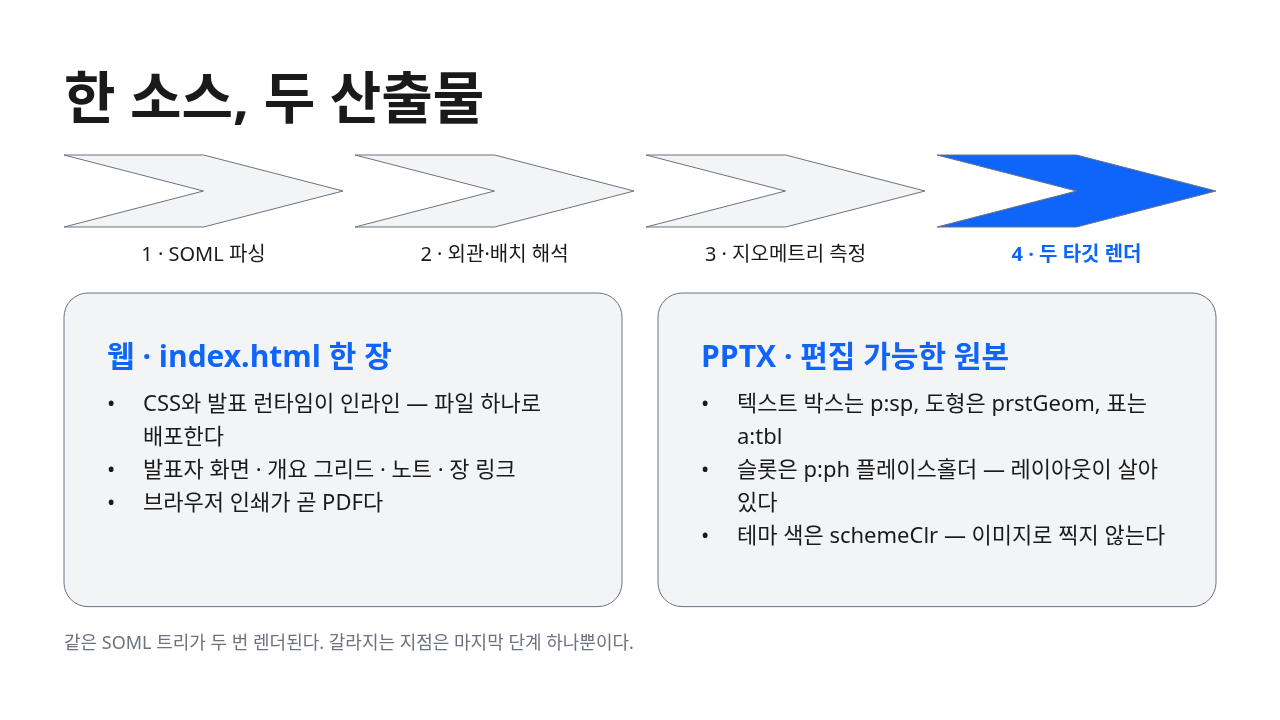
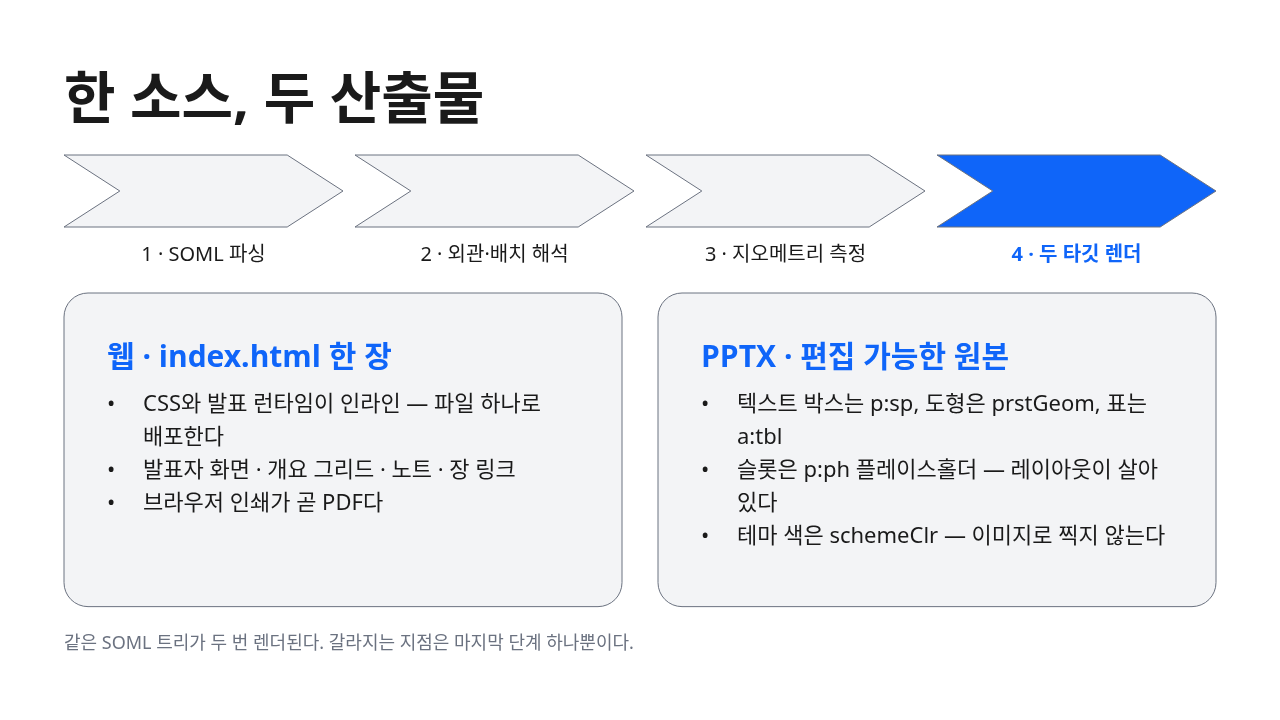
doc: re-render showcase with the shallower default chevron notch

diff --git a/examples/showcase/decks/incident-postmortem/index.html b/examples/showcase/decks/incident-postmortem/index.html
@@ -582,7 +582,7 @@
 <div class="balpyo-grid" data-balpyo-id="s2.1" data-balpyo-el="grid" style="gap: var(--balpyo-space-sm); grid-template-columns: repeat(5, 1fr); flex-grow: 1">
 <div class="balpyo-col" data-balpyo-id="s2.1.0" data-balpyo-el="col" style="gap: var(--balpyo-space-sm)">
 <div class="balpyo-shape" data-balpyo-id="s2.1.0.0" data-balpyo-el="shape" style="width: 100%; height: 64px">
-<svg class="balpyo-shape-ink" viewBox="0 0 100 100" preserveAspectRatio="none" aria-hidden="true" style="fill: var(--balpyo-color-accent5); stroke: var(--balpyo-color-muted); stroke-width: 1px"><path d="M0,0 L50,0 L100,50 L50,100 L0,100 L50,50 Z" vector-effect="non-scaling-stroke"/></svg>
+<svg class="balpyo-shape-ink" viewBox="0 0 100 100" preserveAspectRatio="none" aria-hidden="true" style="fill: var(--balpyo-color-accent5); stroke: var(--balpyo-color-muted); stroke-width: 1px"><path d="M0,0 L80,0 L100,50 L80,100 L0,100 L20,50 Z" vector-effect="non-scaling-stroke"/></svg>
 </div>
 <div class="balpyo-shape" data-balpyo-id="s2.1.0.1" data-balpyo-el="shape" style="padding: calc(var(--balpyo-space-md) + 3.5147px) calc(var(--balpyo-space-md) + 3.5147px) calc(var(--balpyo-space-md) + 3.5147px) calc(var(--balpyo-space-md) + 3.5147px); width: 100%; flex-grow: 1">
 <svg class="balpyo-shape-ink" aria-hidden="true" style="fill: var(--balpyo-color-surface); stroke: none"><rect width="100%" height="100%" rx="12"/></svg>
@@ -597,7 +597,7 @@
 </div>
 <div class="balpyo-col" data-balpyo-id="s2.1.1" data-balpyo-el="col" style="gap: var(--balpyo-space-sm)">
 <div class="balpyo-shape" data-balpyo-id="s2.1.1.0" data-balpyo-el="shape" style="width: 100%; height: 64px">
-<svg class="balpyo-shape-ink" viewBox="0 0 100 100" preserveAspectRatio="none" aria-hidden="true" style="fill: var(--balpyo-color-accent4); stroke: var(--balpyo-color-muted); stroke-width: 1px"><path d="M0,0 L50,0 L100,50 L50,100 L0,100 L50,50 Z" vector-effect="non-scaling-stroke"/></svg>
+<svg class="balpyo-shape-ink" viewBox="0 0 100 100" preserveAspectRatio="none" aria-hidden="true" style="fill: var(--balpyo-color-accent4); stroke: var(--balpyo-color-muted); stroke-width: 1px"><path d="M0,0 L80,0 L100,50 L80,100 L0,100 L20,50 Z" vector-effect="non-scaling-stroke"/></svg>
 </div>
 <div class="balpyo-shape" data-balpyo-id="s2.1.1.1" data-balpyo-el="shape" style="padding: calc(var(--balpyo-space-md) + 3.5147px) calc(var(--balpyo-space-md) + 3.5147px) calc(var(--balpyo-space-md) + 3.5147px) calc(var(--balpyo-space-md) + 3.5147px); width: 100%; flex-grow: 1">
 <svg class="balpyo-shape-ink" aria-hidden="true" style="fill: var(--balpyo-color-surface); stroke: none"><rect width="100%" height="100%" rx="12"/></svg>
@@ -612,7 +612,7 @@
 </div>
 <div class="balpyo-col" data-balpyo-id="s2.1.2" data-balpyo-el="col" style="gap: var(--balpyo-space-sm)">
 <div class="balpyo-shape" data-balpyo-id="s2.1.2.0" data-balpyo-el="shape" style="width: 100%; height: 64px">
-<svg class="balpyo-shape-ink" viewBox="0 0 100 100" preserveAspectRatio="none" aria-hidden="true" style="fill: var(--balpyo-color-surface); stroke: var(--balpyo-color-muted); stroke-width: 1px"><path d="M0,0 L50,0 L100,50 L50,100 L0,100 L50,50 Z" vector-effect="non-scaling-stroke"/></svg>
+<svg class="balpyo-shape-ink" viewBox="0 0 100 100" preserveAspectRatio="none" aria-hidden="true" style="fill: var(--balpyo-color-surface); stroke: var(--balpyo-color-muted); stroke-width: 1px"><path d="M0,0 L80,0 L100,50 L80,100 L0,100 L20,50 Z" vector-effect="non-scaling-stroke"/></svg>
 </div>
 <div class="balpyo-shape" data-balpyo-id="s2.1.2.1" data-balpyo-el="shape" style="padding: calc(var(--balpyo-space-md) + 3.5147px) calc(var(--balpyo-space-md) + 3.5147px) calc(var(--balpyo-space-md) + 3.5147px) calc(var(--balpyo-space-md) + 3.5147px); width: 100%; flex-grow: 1">
 <svg class="balpyo-shape-ink" aria-hidden="true" style="fill: var(--balpyo-color-surface); stroke: none"><rect width="100%" height="100%" rx="12"/></svg>
@@ -627,7 +627,7 @@
 </div>
 <div class="balpyo-col" data-balpyo-id="s2.1.3" data-balpyo-el="col" style="gap: var(--balpyo-space-sm)">
 <div class="balpyo-shape" data-balpyo-id="s2.1.3.0" data-balpyo-el="shape" style="width: 100%; height: 64px">
-<svg class="balpyo-shape-ink" viewBox="0 0 100 100" preserveAspectRatio="none" aria-hidden="true" style="fill: var(--balpyo-color-accent3); stroke: var(--balpyo-color-muted); stroke-width: 1px"><path d="M0,0 L50,0 L100,50 L50,100 L0,100 L50,50 Z" vector-effect="non-scaling-stroke"/></svg>
+<svg class="balpyo-shape-ink" viewBox="0 0 100 100" preserveAspectRatio="none" aria-hidden="true" style="fill: var(--balpyo-color-accent3); stroke: var(--balpyo-color-muted); stroke-width: 1px"><path d="M0,0 L80,0 L100,50 L80,100 L0,100 L20,50 Z" vector-effect="non-scaling-stroke"/></svg>
 </div>
 <div class="balpyo-shape" data-balpyo-id="s2.1.3.1" data-balpyo-el="shape" style="padding: calc(var(--balpyo-space-md) + 3.5147px) calc(var(--balpyo-space-md) + 3.5147px) calc(var(--balpyo-space-md) + 3.5147px) calc(var(--balpyo-space-md) + 3.5147px); width: 100%; flex-grow: 1">
 <svg class="balpyo-shape-ink" aria-hidden="true" style="fill: var(--balpyo-color-surface); stroke: none"><rect width="100%" height="100%" rx="12"/></svg>
@@ -642,7 +642,7 @@
 </div>
 <div class="balpyo-col" data-balpyo-id="s2.1.4" data-balpyo-el="col" style="gap: var(--balpyo-space-sm)">
 <div class="balpyo-shape" data-balpyo-id="s2.1.4.0" data-balpyo-el="shape" style="width: 100%; height: 64px">
-<svg class="balpyo-shape-ink" viewBox="0 0 100 100" preserveAspectRatio="none" aria-hidden="true" style="fill: var(--balpyo-color-surface); stroke: var(--balpyo-color-muted); stroke-width: 1px"><path d="M0,0 L50,0 L100,50 L50,100 L0,100 L50,50 Z" vector-effect="non-scaling-stroke"/></svg>
+<svg class="balpyo-shape-ink" viewBox="0 0 100 100" preserveAspectRatio="none" aria-hidden="true" style="fill: var(--balpyo-color-surface); stroke: var(--balpyo-color-muted); stroke-width: 1px"><path d="M0,0 L80,0 L100,50 L80,100 L0,100 L20,50 Z" vector-effect="non-scaling-stroke"/></svg>
 </div>
 <div class="balpyo-shape" data-balpyo-id="s2.1.4.1" data-balpyo-el="shape" style="padding: calc(var(--balpyo-space-md) + 3.5147px) calc(var(--balpyo-space-md) + 3.5147px) calc(var(--balpyo-space-md) + 3.5147px) calc(var(--balpyo-space-md) + 3.5147px); width: 100%; flex-grow: 1">
 <svg class="balpyo-shape-ink" aria-hidden="true" style="fill: var(--balpyo-color-surface); stroke: none"><rect width="100%" height="100%" rx="12"/></svg>

diff --git a/examples/showcase/decks/balpyo-intro/index.html b/examples/showcase/decks/balpyo-intro/index.html
@@ -650,25 +650,25 @@
 <div class="balpyo-grid" data-balpyo-id="s3.1" data-balpyo-el="grid" style="gap: var(--balpyo-space-sm); grid-template-columns: repeat(4, 1fr)">
 <div class="balpyo-col" data-balpyo-id="s3.1.0" data-balpyo-el="col" style="gap: var(--balpyo-space-sm)">
 <div class="balpyo-shape" data-balpyo-id="s3.1.0.0" data-balpyo-el="shape" style="width: 100%; height: 72px">
-<svg class="balpyo-shape-ink" viewBox="0 0 100 100" preserveAspectRatio="none" aria-hidden="true" style="fill: var(--balpyo-color-surface); stroke: var(--balpyo-color-muted); stroke-width: 1px"><path d="M0,0 L50,0 L100,50 L50,100 L0,100 L50,50 Z" vector-effect="non-scaling-stroke"/></svg>
+<svg class="balpyo-shape-ink" viewBox="0 0 100 100" preserveAspectRatio="none" aria-hidden="true" style="fill: var(--balpyo-color-surface); stroke: var(--balpyo-color-muted); stroke-width: 1px"><path d="M0,0 L80,0 L100,50 L80,100 L0,100 L20,50 Z" vector-effect="non-scaling-stroke"/></svg>
 </div>
 <div class="balpyo-text" data-balpyo-id="s3.1.0.1" data-balpyo-el="text" style="font-family: var(--balpyo-font-body); font-size: 20px; font-weight: 400; line-height: 1.5; color: var(--balpyo-color-fg); text-align: center">1 · SOML 파싱</div>
 </div>
 <div class="balpyo-col" data-balpyo-id="s3.1.1" data-balpyo-el="col" style="gap: var(--balpyo-space-sm)">
 <div class="balpyo-shape" data-balpyo-id="s3.1.1.0" data-balpyo-el="shape" style="width: 100%; height: 72px">
-<svg class="balpyo-shape-ink" viewBox="0 0 100 100" preserveAspectRatio="none" aria-hidden="true" style="fill: var(--balpyo-color-surface); stroke: var(--balpyo-color-muted); stroke-width: 1px"><path d="M0,0 L50,0 L100,50 L50,100 L0,100 L50,50 Z" vector-effect="non-scaling-stroke"/></svg>
+<svg class="balpyo-shape-ink" viewBox="0 0 100 100" preserveAspectRatio="none" aria-hidden="true" style="fill: var(--balpyo-color-surface); stroke: var(--balpyo-color-muted); stroke-width: 1px"><path d="M0,0 L80,0 L100,50 L80,100 L0,100 L20,50 Z" vector-effect="non-scaling-stroke"/></svg>
 </div>
 <div class="balpyo-text" data-balpyo-id="s3.1.1.1" data-balpyo-el="text" style="font-family: var(--balpyo-font-body); font-size: 20px; font-weight: 400; line-height: 1.5; color: var(--balpyo-color-fg); text-align: center">2 · 외관·배치 해석</div>
 </div>
 <div class="balpyo-col" data-balpyo-id="s3.1.2" data-balpyo-el="col" style="gap: var(--balpyo-space-sm)">
 <div class="balpyo-shape" data-balpyo-id="s3.1.2.0" data-balpyo-el="shape" style="width: 100%; height: 72px">
-<svg class="balpyo-shape-ink" viewBox="0 0 100 100" preserveAspectRatio="none" aria-hidden="true" style="fill: var(--balpyo-color-surface); stroke: var(--balpyo-color-muted); stroke-width: 1px"><path d="M0,0 L50,0 L100,50 L50,100 L0,100 L50,50 Z" vector-effect="non-scaling-stroke"/></svg>
+<svg class="balpyo-shape-ink" viewBox="0 0 100 100" preserveAspectRatio="none" aria-hidden="true" style="fill: var(--balpyo-color-surface); stroke: var(--balpyo-color-muted); stroke-width: 1px"><path d="M0,0 L80,0 L100,50 L80,100 L0,100 L20,50 Z" vector-effect="non-scaling-stroke"/></svg>
 </div>
 <div class="balpyo-text" data-balpyo-id="s3.1.2.1" data-balpyo-el="text" style="font-family: var(--balpyo-font-body); font-size: 20px; font-weight: 400; line-height: 1.5; color: var(--balpyo-color-fg); text-align: center">3 · 지오메트리 측정</div>
 </div>
 <div class="balpyo-col" data-balpyo-id="s3.1.3" data-balpyo-el="col" style="gap: var(--balpyo-space-sm)">
 <div class="balpyo-shape" data-balpyo-id="s3.1.3.0" data-balpyo-el="shape" style="width: 100%; height: 72px">
-<svg class="balpyo-shape-ink" viewBox="0 0 100 100" preserveAspectRatio="none" aria-hidden="true" style="fill: var(--balpyo-color-accent1); stroke: var(--balpyo-color-muted); stroke-width: 1px"><path d="M0,0 L50,0 L100,50 L50,100 L0,100 L50,50 Z" vector-effect="non-scaling-stroke"/></svg>
+<svg class="balpyo-shape-ink" viewBox="0 0 100 100" preserveAspectRatio="none" aria-hidden="true" style="fill: var(--balpyo-color-accent1); stroke: var(--balpyo-color-muted); stroke-width: 1px"><path d="M0,0 L80,0 L100,50 L80,100 L0,100 L20,50 Z" vector-effect="non-scaling-stroke"/></svg>
 </div>
 <div class="balpyo-text" data-balpyo-id="s3.1.3.1" data-balpyo-el="text" style="font-family: var(--balpyo-font-body); font-size: 20px; font-weight: 400; line-height: 1.5; color: var(--balpyo-color-accent1); text-align: center"><strong style="font-family: var(--balpyo-font-body); font-size: 20px; font-weight: 700; line-height: 1.5; color: var(--balpyo-color-accent1); text-align: center; font-style: normal; text-decoration: none">4 · 두 타깃 렌더</strong></div>
 </div>
